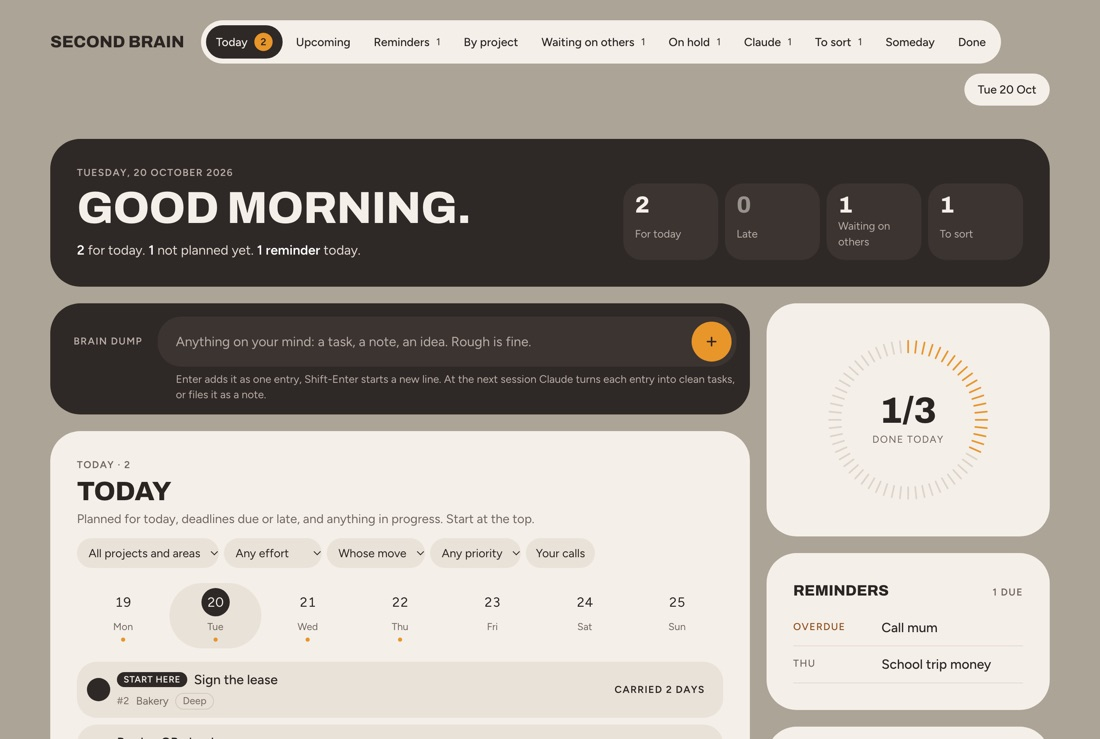
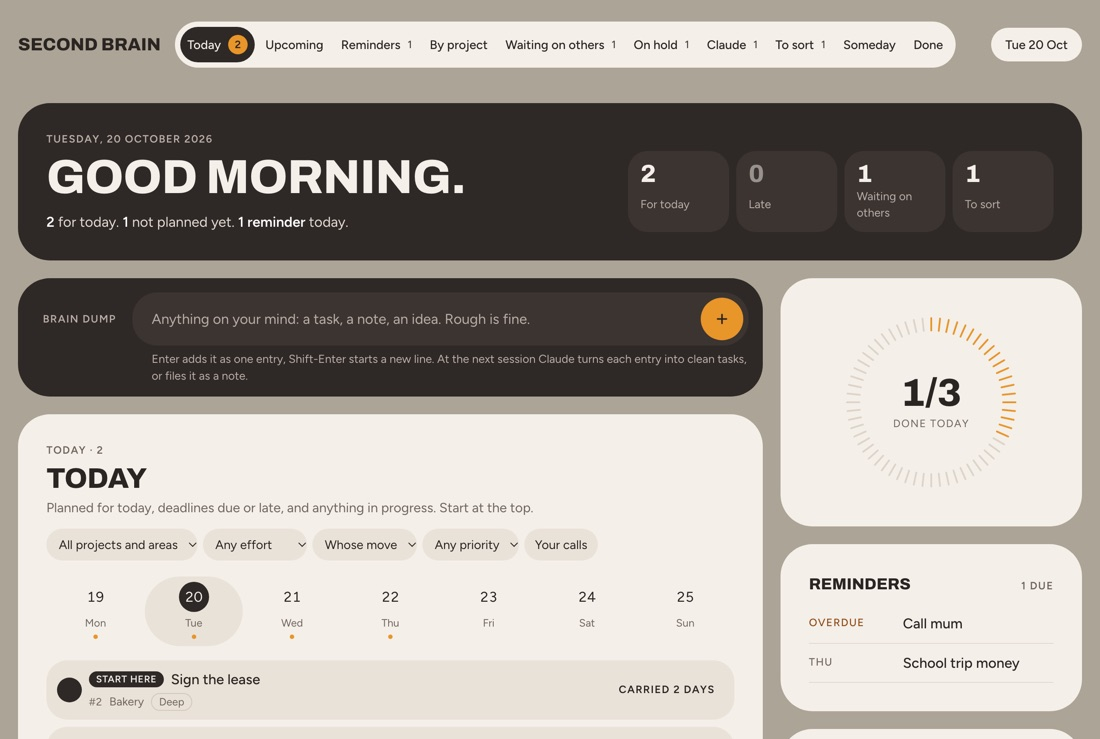
Warm Bento: the date chip stays on the tab bar's line; the tabs wrap instead of scrolling below 1100px
Since Upcoming joined the tabs, brand + tabs + date needed 1263px and the bar has 1200 at most, so the date chip
dropped onto a line of its own at every desktop width. The tabs' padding goes from 12px to 8px and the bar's gap from
20px to 16px: all three now fit in 1175px. Below 1240px, where they can't, the chip is hidden rather than wrapped;
the greeting band already carries the date. From 761 to 1099px the tabs take a row of their own and wrap inside the
pill, so Someday and Done are never scrolled out of sight. Checked at 1440, 1240, 1100, 1000 and 780px; 177 green.

README preview retaken at 1240x833 like the other three, with the task numbers in view.

diff --git a/Scripts/board_styles/bento.css b/Scripts/board_styles/bento.css
@@ -83,7 +83,11 @@
   .side-reminders { grid-area:reminders; align-self:stretch; }
   .side-waiting { grid-area:waiting; align-self:stretch; }
   .side-folders { grid-area:folders; align-self:stretch; }
+  .top { column-gap:16px; }
+  #tabs button { padding:0 8px; }   /* brand, all ten tabs and the date fit on one line at full width */
 }
+@media (min-width: 761px) and (max-width: 1239px) { .stamp { display:none; } }   /* no room beside the tabs; the greeting band has the date */
+@media (min-width: 761px) and (max-width: 1099px) { #tabs { flex-basis:100%; flex-wrap:wrap; overflow:visible; border-radius:26px; } }   /* a row of their own, wrapping, never scrolled out of sight */
 @media (min-width: 1100px) {
   .app { grid-template-columns:minmax(0, 1fr) 340px;
          grid-template-areas:"top top" "banner banner" "hero hero" "capture gauge" "list gauge" "list reminders" "list waiting" "list folders" "list .";
